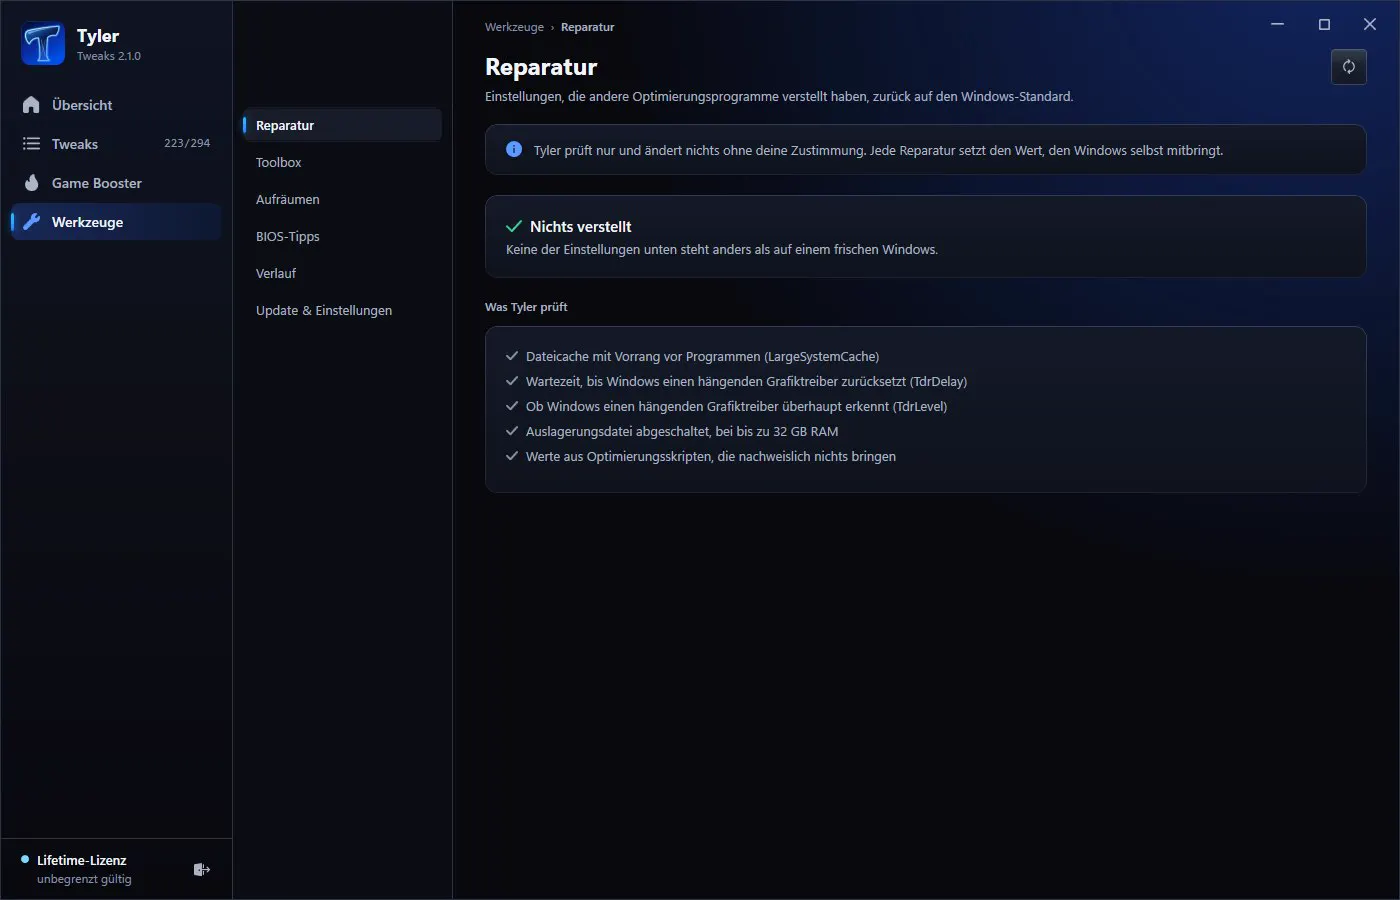
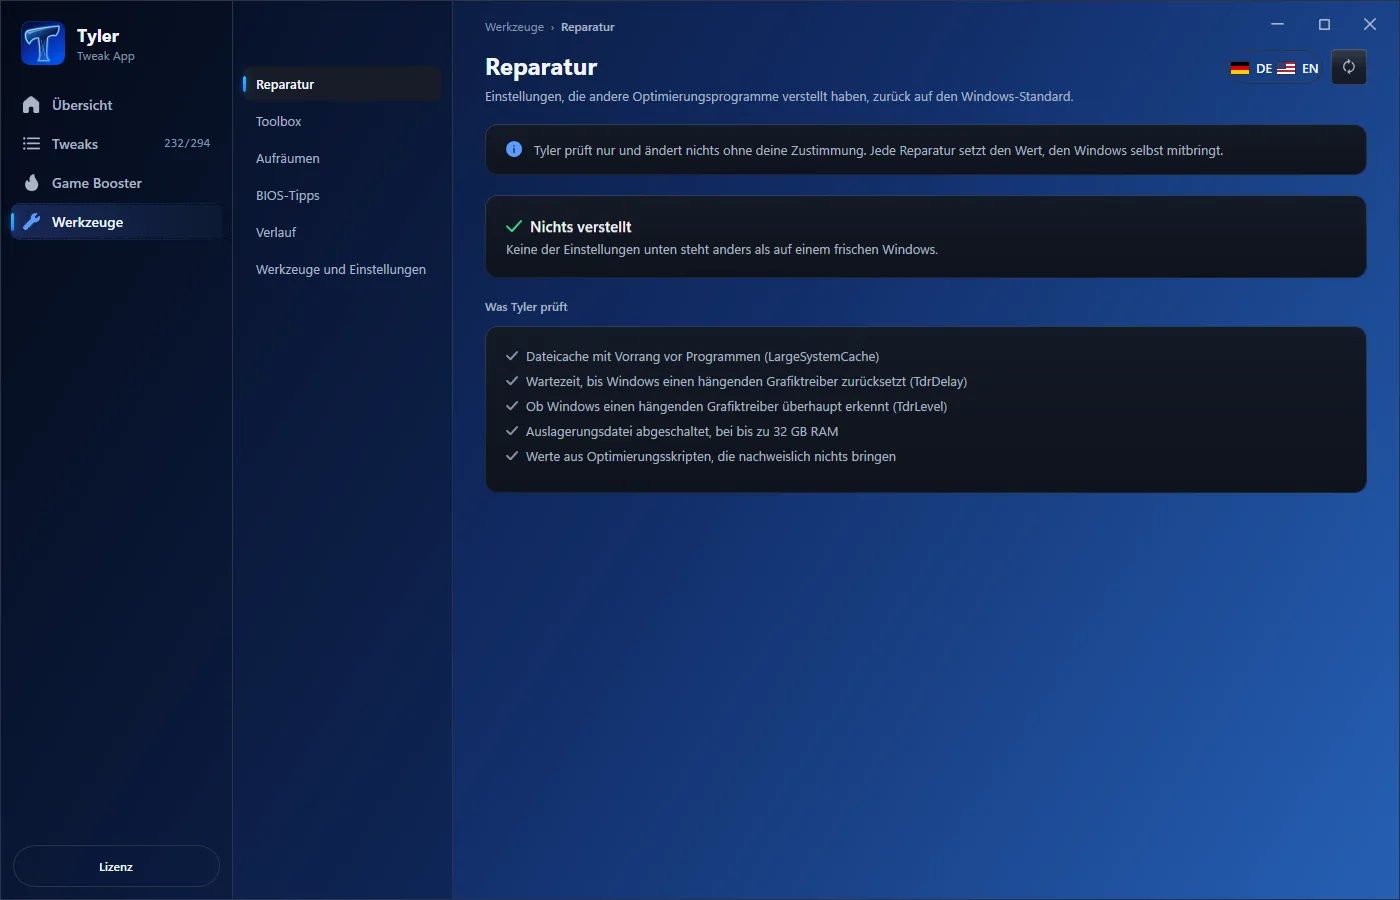
Neue App-Bilder aus Tyler 3.0.0
Acht Aufnahmen (Übersicht, Tweaks, Presets, Game Booster, Aufräumen,
Reparatur, BIOS-Tipps, Netzwerk Auto Tune) statt der alten aus 4.1.
Ohne Autostart, installierte Programme und Einstellungen (Persönliches).
Karte im Hero zeigt jetzt 'Angewendet 232 von 294' wie die App.
Nicht veröffentlicht.

diff --git a/index.html b/index.html
@@ -215,12 +215,12 @@
 
     <div class="tt-buehne">
       <div class="tt-schwebe tt-schwebe-links" aria-hidden="true">
-        <p class="tt-schwebe-kopf">PC-Score</p>
+        <p class="tt-schwebe-kopf">Angewendet</p>
         <div class="tt-ring">
           <svg viewBox="0 0 120 120"><circle cx="60" cy="60" r="50" class="tt-ring-spur"/><circle cx="60" cy="60" r="50" class="tt-ring-wert"/></svg>
-          <span>95</span>
+          <span>232</span>
         </div>
-        <p class="tt-schwebe-fuss">Was fehlt bis 100?</p>
+        <p class="tt-schwebe-fuss">Tweaks von 294</p>
       </div>
 
       <img class="tt-emblem" src="bilder/hero-emblem-560.webp"
@@ -510,17 +510,19 @@
           </details>
         </div>
 
-        <!-- Echte Aufnahmen aus der App, die von selbst weiterblättern
-             (script.js, "App-Vorschau"). Ohne JavaScript bleibt das erste Bild. -->
+        <!-- Echte Aufnahmen aus Tyler 3.0.0 (13.11.2026, Fenster 1400 × 900), die
+             von selbst weiterblättern (script.js, "App-Vorschau"). Ohne
+             JavaScript bleibt das erste Bild. Nicht aufgenommen: Autostart,
+             installierte Programme und Einstellungen (zeigen Persönliches). -->
         <div class="tt-welt-bild">
           <figure class="app-demo" id="app-demo">
             <div class="app-demo-bilder">
               <img class="ist-aktiv" src="bilder/app-1-uebersicht.webp" width="1400" height="900" loading="lazy" decoding="async"
-                   alt="Übersicht der Tweak App: Score 95 von 100, 223 von 294 Tweaks aktiv, Live-Werte von CPU und Grafikkarte"
-                   data-text="Übersicht: Score, Live-Werte und deine Absicherung auf einen Blick">
+                   alt="Übersicht der Tweak App: Hardware des PCs, 232 von 294 Tweaks angewendet, Absicherung mit Wiederherstellungspunkt und Registry-Backup"
+                   data-text="Übersicht: dein System, angewendete Tweaks und deine Absicherung">
               <img src="bilder/app-2-tweaks.webp" width="1400" height="900" loading="lazy" decoding="async"
-                   alt="Tweaks unter System › Allgemein, links die Kategorien von System bis Overlays, jeder Tweak mit Schalter und Erklärung"
-                   data-text="Jeder Tweak ein Schalter, sortiert von System über CPU und GPU bis Overlays">
+                   alt="Tweaks unter System › Allgemein: jeder Tweak mit Schalter und Erklärung, links die Bereiche von System bis Experimentell"
+                   data-text="Jeder Tweak ein Schalter, mit Erklärung dabei">
               <img src="bilder/app-3-presets.webp" width="1400" height="900" loading="lazy" decoding="async"
                    alt="Presets und Profile: das Preset Tyler Owner und eigene Profile"
                    data-text="Tyler Owner: die Einstellungen des Entwicklers mit einem Klick, dazu eigene Profile">
@@ -529,15 +531,18 @@
                    data-text="Game Booster: schließt vor dem Spielen alles Unnötige">
               <img src="bilder/app-5-aufraeumen.webp" width="1400" height="900" loading="lazy" decoding="async"
                    alt="Aufräumen: Temp-Dateien und Browser-Cache, auf Wunsch jede Woche automatisch"
-                   data-text="Aufräumen: Programme deinstallieren, Temp-Dateien und Browser-Cache">
+                   data-text="Aufräumen: Temp-Dateien und Browser-Cache, auf Wunsch jede Woche">
               <img src="bilder/app-6-reparatur.webp" width="1400" height="900" loading="lazy" decoding="async"
                    alt="Reparatur unter Werkzeuge: prüft, was andere Optimierungsprogramme verstellt haben, und listet jede Prüfung auf"
                    data-text="Reparatur: setzt zurück, was andere Tweak-Programme verstellt haben">
               <img src="bilder/app-7-bios.webp" width="1400" height="900" loading="lazy" decoding="async"
                    alt="BIOS-Tipps für das erkannte Mainboard mit Menüpfaden"
                    data-text="BIOS-Tipps: wo die Einstellungen in deinem Mainboard stehen">
+              <img src="bilder/app-8-netzwerk.webp" width="1400" height="900" loading="lazy" decoding="async"
+                   alt="Netzwerk-Tweaks mit der Karte Netzwerk Auto Tune"
+                   data-text="Netzwerk Auto Tune: dein Netzwerk mit einem Klick eingestellt">
             </div>
-            <figcaption class="app-demo-text">Übersicht: Score, Live-Werte und deine Absicherung auf einen Blick</figcaption>
+            <figcaption class="app-demo-text">Übersicht: dein System, angewendete Tweaks und deine Absicherung</figcaption>
             <div class="app-demo-punkte" aria-label="Bild wählen"></div>
           </figure>
         </div>

diff --git a/premium.css b/premium.css
@@ -247,7 +247,7 @@
   stroke: var(--tt-blau);
   stroke-linecap: round;
   stroke-dasharray: 314;
-  stroke-dashoffset: 16;
+  stroke-dashoffset: 66; /* 232 von 294 */
 }
 .tt-ring span {
   position: absolute;
@@ -255,7 +255,7 @@
   display: grid;
   place-items: center;
   font-family: var(--font-head);
-  font-size: 1.7rem;
+  font-size: 1.55rem;
   font-weight: 700;
   letter-spacing: -.03em;
 }
